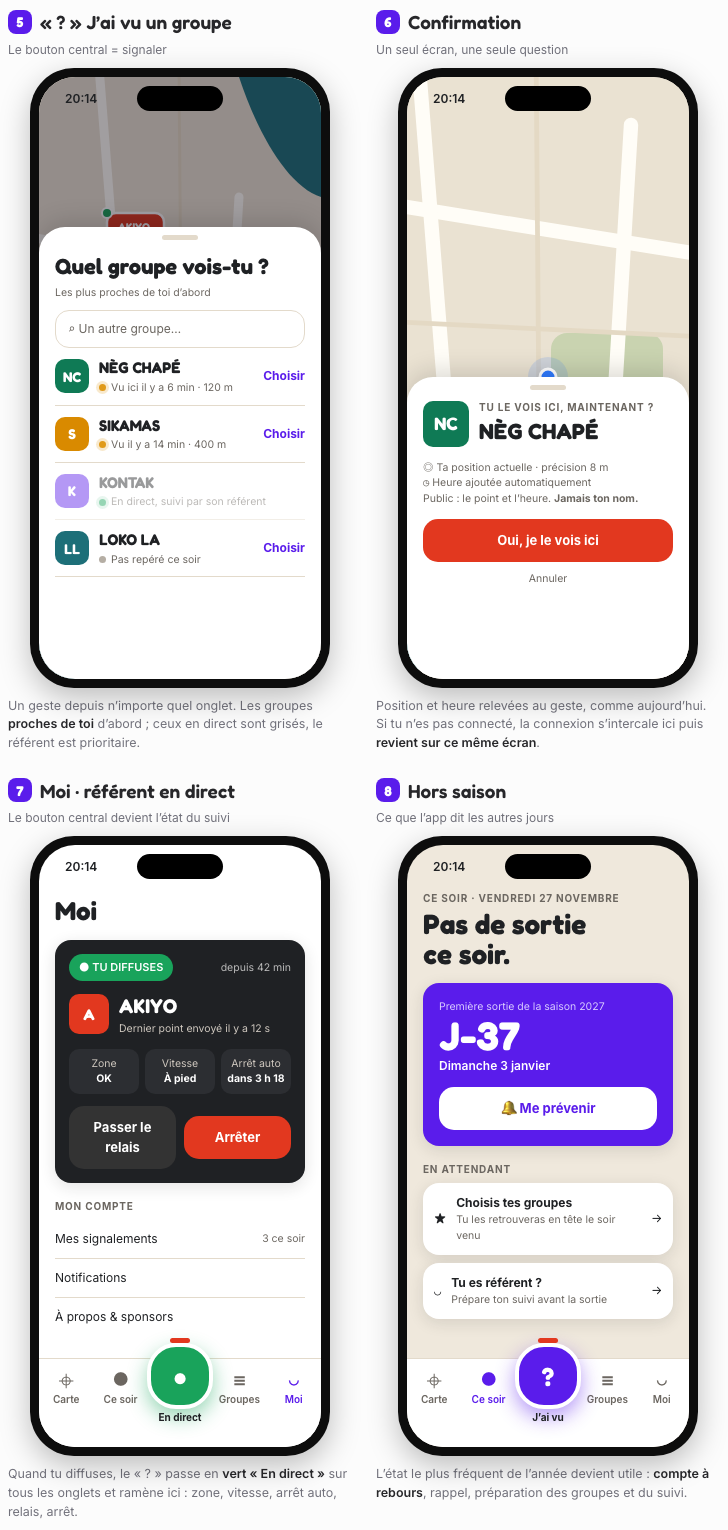
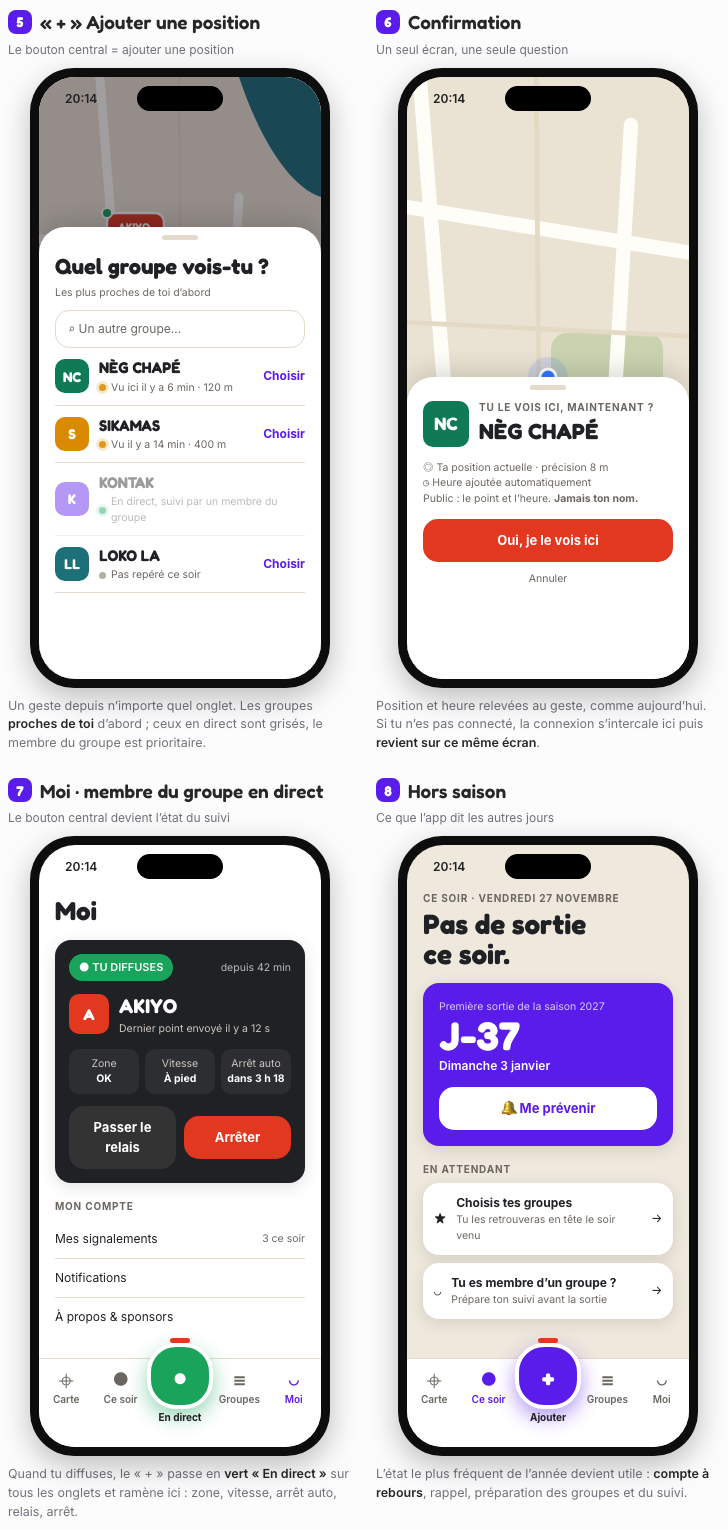
docs(expo): mettre les maquettes à jour avec le « + » et « membre du groupe »

diff --git a/apps/expo/docs/prd-parcours-2027.md b/apps/expo/docs/prd-parcours-2027.md
@@ -56,7 +56,7 @@ Barre d’onglets en bas, avec un bouton central :
 
 ## Maquettes
 
-Premières maquettes (positions, distances et horaires fictifs ; noms de groupes réels du DEV). Elles montrent encore le « ? » central et le mot « référent » : à mettre à jour avec le « + » et « membre du groupe ».
+Premières maquettes (positions, distances et horaires fictifs ; noms de groupes réels du DEV). Mises à jour le 28 novembre avec le « + » central et « membre du groupe ». Les couleurs de l’app suivent la palette Omasla ; l’implémentation fait foi pour les détails.
 
 ![Retrouver un groupe](./maquettes/2026-11-27-retrouver-un-groupe.png)
 
